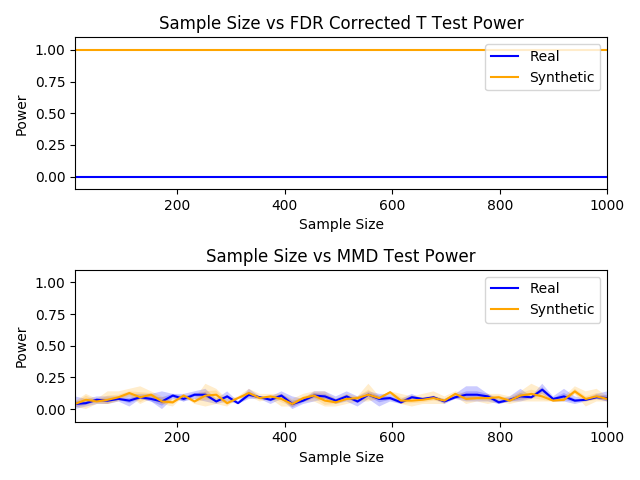
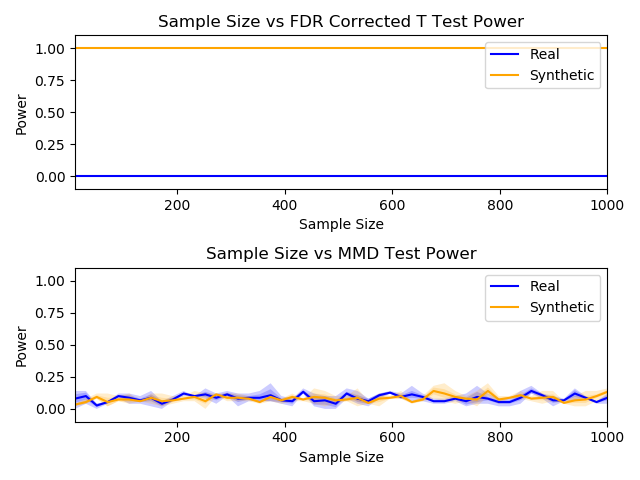
Added new power analysis results and updated fMRI GAN to produce samples with multi tag label encoding.

diff --git a/generate_icw_fmri_gan.py b/generate_icw_fmri_gan.py
@@ -35,7 +35,7 @@ os.makedirs(args.output_dir)
 
 # ========== Hyperparameters ==========
 DOWNSAMPLE_SCALE = 0.25
-MULTI_TAG_LABEL_ENCODING = False
+MULTI_TAG_LABEL_ENCODING = True
 MODEL_DIMENSIONALITY = 64
 CONDITONING_DIMENSIONALITY = 5
 NOISE_SAMPLE_LENGTH = 128

diff --git a/train_icw_fmri_gan.py b/train_icw_fmri_gan.py
@@ -30,7 +30,7 @@ os.makedirs(args.output_dir)
 
 # ========== Hyperparameters ==========
 DOWNSAMPLE_SCALE = 0.25
-MULTI_TAG_LABEL_ENCODING = False
+MULTI_TAG_LABEL_ENCODING = True
 TRAINING_STEPS = 200000
 BATCH_SIZE = 50
 MODEL_DIMENSIONALITY = 64
